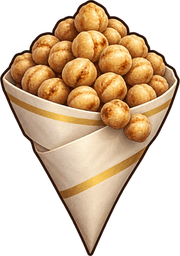
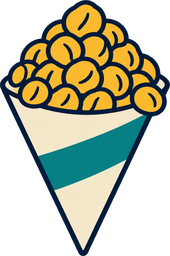
Final pawn set, gündem card art, sürpriz back and invite image (v0.20.1)
All six pawns and the 24 gündem cards are now drawn in the new flat
cartoon card style; the news card shows the gündem's own picture. The
sürpriz reveal uses its new card back and the invite image is ready for
the link preview. A thin dark line around the player-colour outline keeps
a yellow outline from merging into a mustard pawn. GORSEL_STIL.md records
how pawns, gündem cards and the other images are made.

diff --git a/src/ui/gameview.js b/src/ui/gameview.js
@@ -1075,12 +1075,11 @@ export function stageClose() {
   stageShow.done = null;
 }
 
-const GUNDEM_ART = new Set(); // gündem kartı görseli olan kimlikler (assets/gundem/<id>.jpg); görsel yoksa simge
 function showNews(v, ev) {
   const g = GUNDEM[ev.id];
   const detail = v.gundem && v.gundem.id === ev.id ? v.gundem.detail : '';
   const sum = v.summary && v.summary.round === ev.round - 1 ? summaryHTML(v, v.summary) : '';
-  const img = GUNDEM_ART.has(ev.id) ? html`<div class="nimg" style="background-image:url(assets/gundem/${ev.id}.jpg)"></div>` : html`<div class="nimg">${I(GUNDEM_IC[ev.id] || 'news')}</div>`;
+  const img = html`<div class="nimg" style="background-image:url(assets/gundem/${ev.id}.jpg)"></div>`;
   stageShow(html`<div class="news-card">${img}<div class="nbody"><span class="kicker">${ev.round}. tur · son dakika</span><span class="h28">${g.name}</span><span class="body">${g.text}</span>${detail ? html`<span class="hint" style="height:auto;padding:8px 12px;white-space:normal">${detail}</span>` : ''}${sum}</div></div>`, (sum ? 5600 : 3600) * spd());
 }
 

diff --git a/styles/main.css b/styles/main.css
@@ -57,7 +57,7 @@ body.dark .ic.c { filter: drop-shadow(0 0 0.7px rgba(255, 255, 255, 0.9)) drop-s
 .pawn { display: inline-flex; width: var(--s); height: var(--s); align-items: flex-end; justify-content: center; flex: none; line-height: 0; overflow: visible; }
 .pawn img {
   display: block; pointer-events: none; user-select: none;
-  filter: drop-shadow(var(--o) 0 0 var(--pc)) drop-shadow(calc(var(--o) * -1) 0 0 var(--pc)) drop-shadow(0 var(--o) 0 var(--pc)) drop-shadow(0 calc(var(--o) * -1) 0 var(--pc)) drop-shadow(0 2px 3px rgba(0, 0, 0, 0.35));
+  filter: drop-shadow(var(--o) 0 0 var(--pc)) drop-shadow(calc(var(--o) * -1) 0 0 var(--pc)) drop-shadow(0 var(--o) 0 var(--pc)) drop-shadow(0 calc(var(--o) * -1) 0 var(--pc)) drop-shadow(0 0 1px rgba(27, 34, 51, 0.9)) drop-shadow(0 2px 3px rgba(0, 0, 0, 0.35));
 }
 .disc { width: 40px; height: 40px; border-radius: 50%; display: grid; place-items: center; flex: none; background: color-mix(in srgb, var(--pc) 12%, transparent); }
 body.dark .disc { background: color-mix(in srgb, var(--pc) 22%, transparent); }

diff --git a/src/ui/pawns.js b/src/ui/pawns.js
@@ -3,7 +3,7 @@
 import { AVATARS, PAWN_NAMES } from '../engine/index.js';
 
 // Resmin görünen kısmının genişlik / yükseklik oranı (resimler bu kısma kırpılı).
-const ASPECT = { semazen: 0.764, kofte: 1.158, leblebi: 0.703, ankaray: 1.063, galata: 0.667, hitit: 1.036 };
+const ASPECT = { semazen: 0.766, kofte: 1.422, leblebi: 0.664, ankaray: 1.103, galata: 0.668, hitit: 0.918 };
 
 const kindOf = (avatar) => (ASPECT[avatar] ? avatar : AVATARS[0]);
 

diff --git a/src/version.js b/src/version.js
@@ -1,6 +1,6 @@
 // APP_VERSION her yayında artar (ekranda görünür).
 // PROTOCOL yalnız mesaj ya da görünüm biçimi uyumsuz değiştiğinde artar; farklıysa oyuncu odaya giremez.
 // SAVE_VERSION kayıtlı oyunun biçimi değişince artar; eski kayıt açılmaz.
-export const APP_VERSION = '0.20.0';
+export const APP_VERSION = '0.20.1';
 export const PROTOCOL = 10;
 export const SAVE_VERSION = 11;

diff --git a/docs/GORSEL_STIL.md b/docs/GORSEL_STIL.md
@@ -15,6 +15,22 @@ Square 1:1 card illustration, artwork only: no frame, no border, no text, no let
 
 - Sahne, kartın esprisini tek bakışta anlatmalı (ör. Dayın Çıktı: deri ceketli, desenli gömlekli, altın zincirli, tespihli kıro bir dayının ev sahibini elini kaldırıp durdurması). Kıyafetler bugünün Türkiye'si: fes, şalvar, kuşak yok. Elde tutulan nesneler tek ve doğal olsun (tek sayfa fatura, bir anahtar); anlamı belli olmayan nesne (yerde zar gibi) çizilmez.
 
+## Gündem kartları
+
+- `assets/gundem/<gündemId>.jpg`, 360x360. Kart görseliyle aynı araç, aynı stil referansı (`assets/kart/itiraz.jpg`) ve aynı komut kalıbı; sahne gündemin esprisini anlatır. Komutun sonuna: "No portraits, no pictures on walls, no banknotes, no signs with writing."
+- SÜRPRİZ kartının arka yüzü `assets/kart/surpriz.jpg` (250x350): `arka.jpg` referansıyla, aynı aileden ama domates kırmızısı zemin, ortada büyük "?".
+- Davet linki önizlemesi `assets/davet.jpg` (1200x630): insan yok, yazı yok; İstanbul silueti, zar, kartlar, çay bardağı.
+
+## Oyuncu piyonları
+
+- `assets/piyon/<ad>.png` (semazen, kofte, leblebi, ankaray, galata, hitit): şeffaf zemin, görünen figüre kırpılmış, uzun kenarı 256 px. Oyuncu rengi resme değil, oyunda figürün kenarına çizilir; resimde halka ya da kaide olmaz.
+- Araç ve stil referansı kartlarla aynı (`gpt_image_2_5`, `itiraz.jpg`); Hitit Güneşi için kullanıcının verdiği Ankara amblemi de referans verildi. Yeni piyon eklenirse `src/ui/pawns.js`'teki en/boy oranı tablosuna da yazılır.
+- Komut kalıbı (yalnız "Subject" değişir):
+
+```
+Board game player token, a single compact figurine-like object, artwork only: no text, no letters, no numbers, no base, no pedestal, no ring. Match the art style of the reference image exactly (style only, not its characters or scene): bold flat vector cartoon, medium-weight dark navy outline (clear but not extra thick), flat fills only in tomato red, teal and mustard plus cream/off-white, no gradients, no texture, no shading. Compact figure that fills a roughly square area (not tall-thin, not wide-flat), no thin protruding parts, clean solid silhouette edge, readable at 36 px. Centered, whole object visible, filling about 85% of the frame, isolated on a fully transparent background, no shadow, no scenery. Subject: <figür>
+```
+
 ## Tahta kareleri
 
 - Özel kareler (Başlangıç Noktası, Fırsat, SÜRPRİZ, Tapu, Çay Ocağı, Zabıta) ve ulaşım (gar, havalimanı) resim değil, `src/ui/icons.js` içindeki elle çizilmiş SVG ikonlardır (64x64). Kullanıcı yapay zeka resimlerini kalabalık buldu (v0.6); istenen, orijinal Monopoly gibi tek bakışta okunan, kalın hatlı sade ikon.
